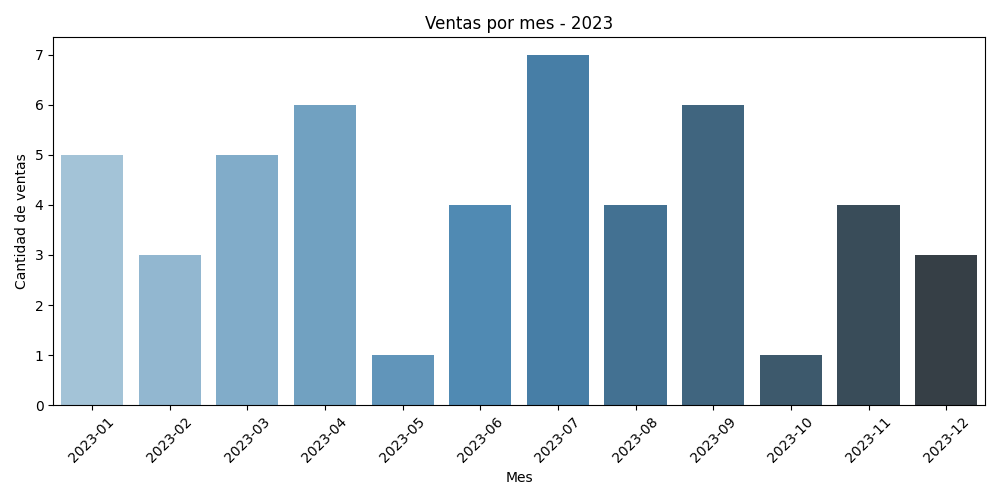
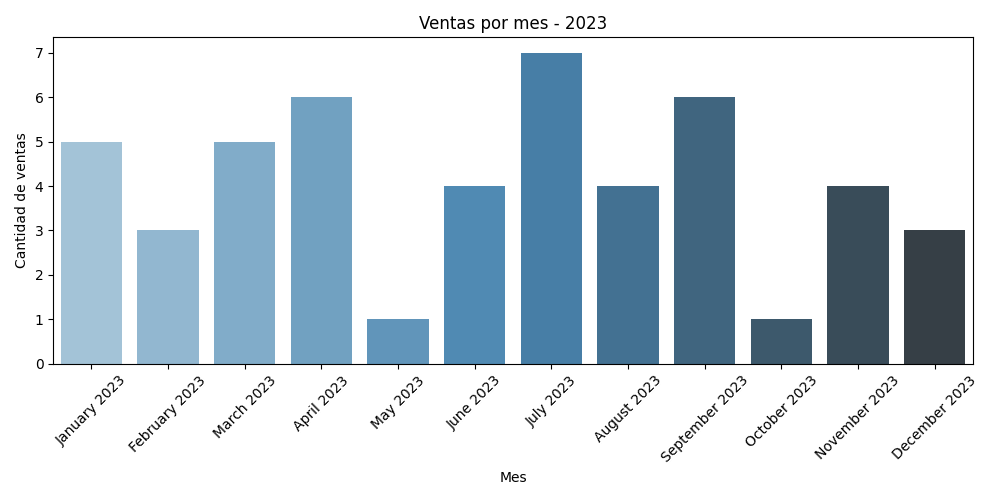
Todo listo menos el grafico 2

diff --git a/conexion_consulta_basica.py b/conexion_consulta_basica.py
@@ -6,6 +6,8 @@ import os
 import numpy as np
 import textwrap
 from matplotlib.ticker import FuncFormatter
+import calendar
+from datetime import datetime
 
 def conectar():
     return psycopg2.connect(
@@ -30,17 +32,27 @@ def ventas_por_mes(conn, anio):
         resultados = cursor.fetchall()
 
     # Mostrar en consola
-   
     for anomes, count in resultados:
         print(f"{anomes}: {count}")
 
     # Si hay resultados, generar gráfico
     if resultados:
-        anomes = [r[0] for r in resultados]
+        anomes_raw = [r[0] for r in resultados]
         cantidad = [r[1] for r in resultados]
+
+        # Convertir "YYYY-MM" a "Mes Año"
+        anomes = []
+        for fecha in anomes_raw:
+            try:
+                dt = datetime.strptime(fecha, "%Y-%m")
+                nombre_mes = calendar.month_name[dt.month].capitalize()
+                anomes.append(f"{nombre_mes} {dt.year}")
+            except:
+                anomes.append(fecha)  # fallback si algo falla
 
         plt.figure(figsize=(10, 5))
         sns.barplot(x=anomes, y=cantidad, palette="Blues_d")
+
         plt.title(f'Ventas por mes - {anio}')
         plt.xticks(rotation=45)
         plt.ylabel('Cantidad de ventas')
@@ -55,9 +67,9 @@ def ventas_por_mes(conn, anio):
         plt.savefig(filename)
         plt.show()
         plt.close()
+
         print(f"\n Gráfico guardado como: {filename}")
         print("Guardando gráfico en:", os.path.abspath(output_dir))
-
     else:
         print("\n No se encontraron resultados para ese año.")
 
@@ -342,12 +354,12 @@ def main():
     args = parser.parse_args()
     
     conn = conectar()
-
+    #LISTO
     """print(f"\nVentas por mes para el año {args.anio}:")
     ventas = ventas_por_mes(conn, args.anio)
     for anomes, count in ventas:
         print(f"{anomes}: {count}")"""
-
+    #Pendiente
     print(f"\nCompras, ventas y diferencia para el año {args.anio}:")
     datos = compras_ventas_diferencia(conn, args.anio)
     for anomes, monto_ventas, monto_compras, diferencia in datos:
